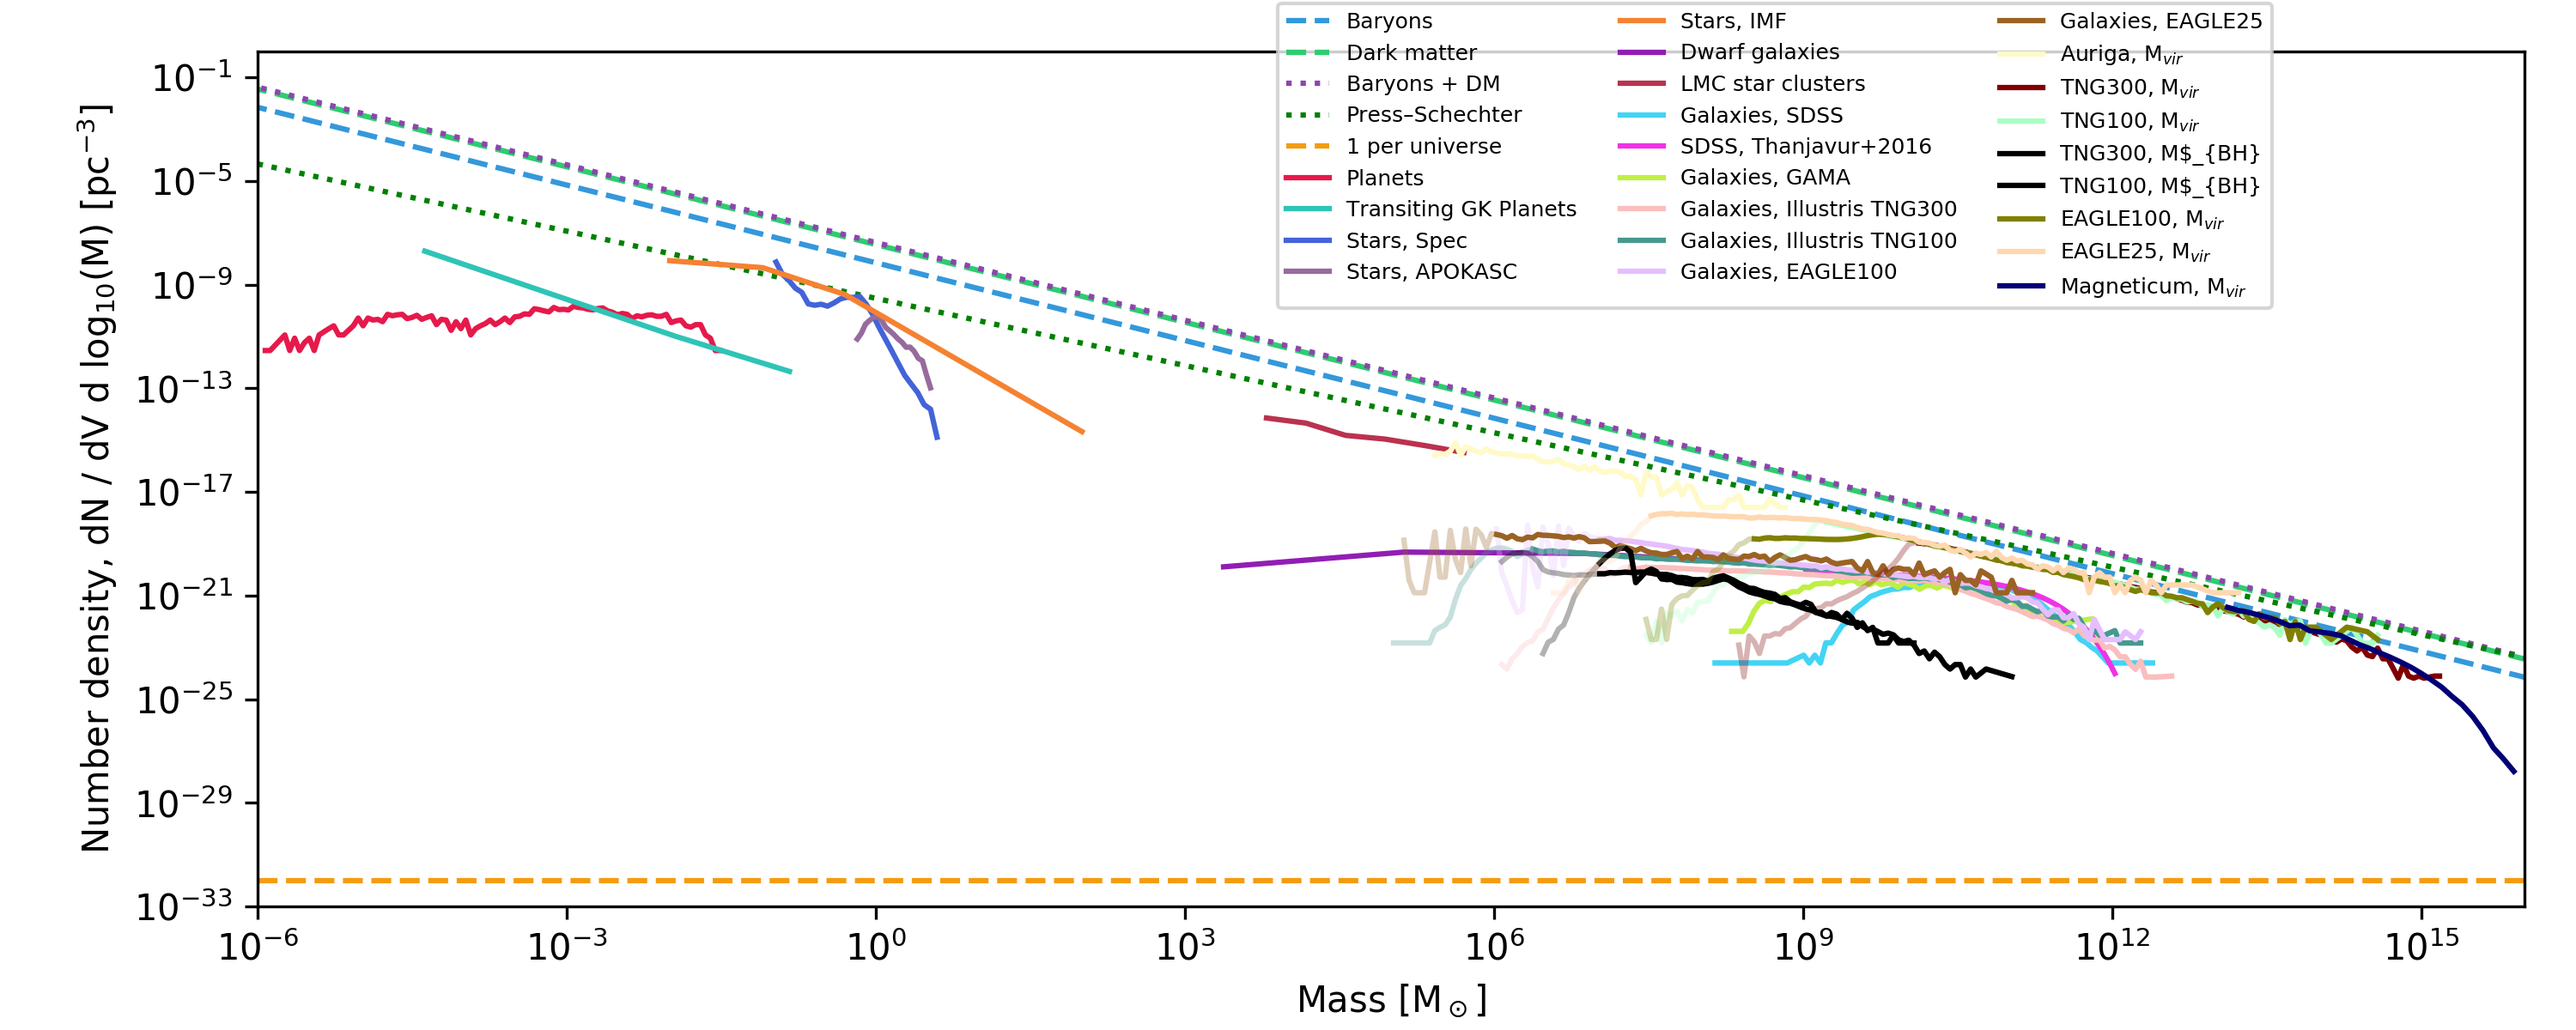
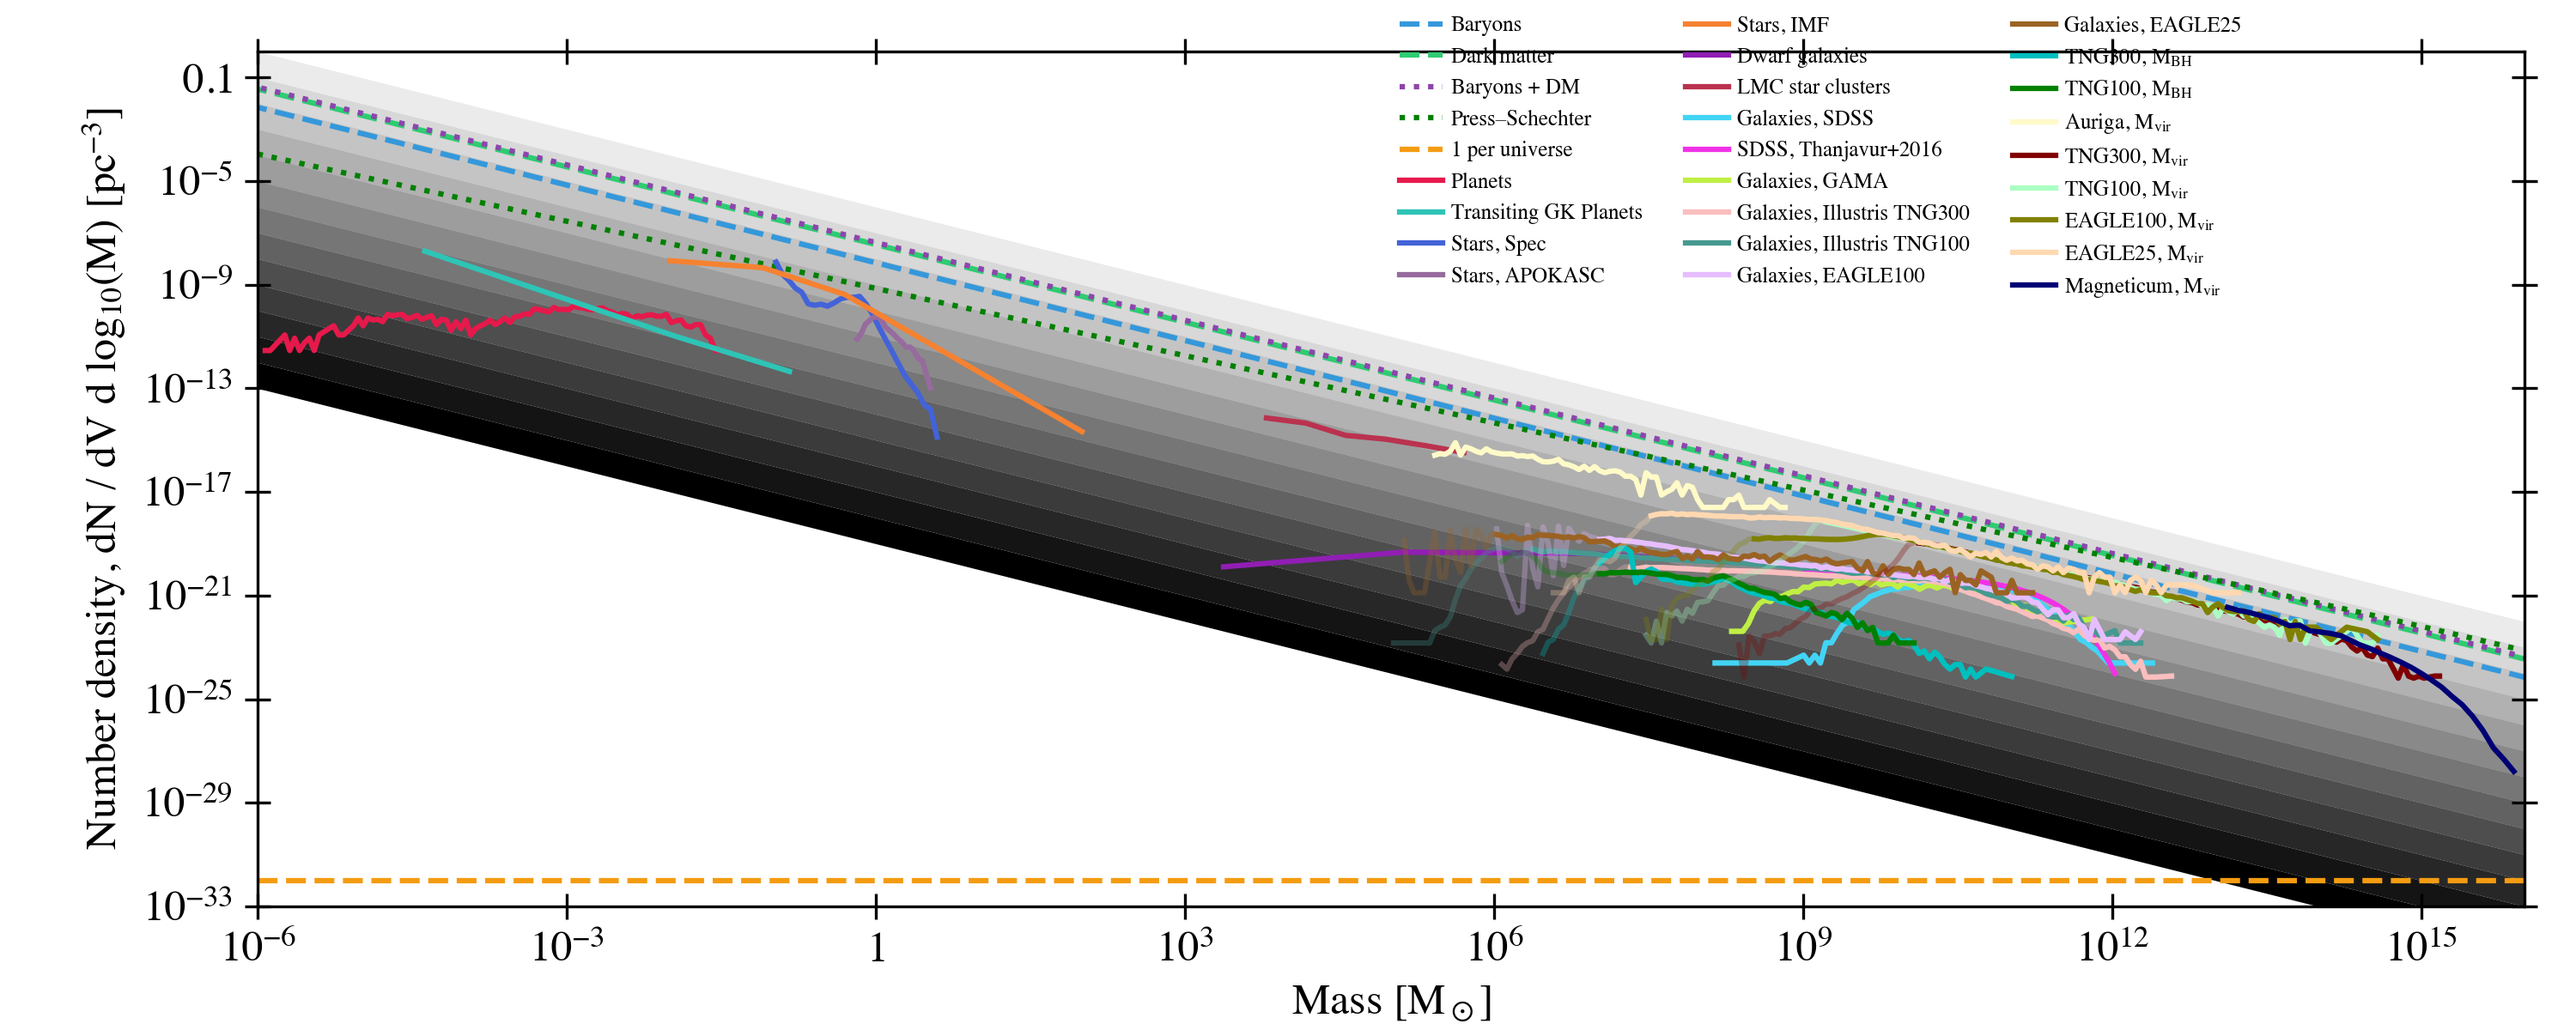
update histogram_plot

diff --git a/figures/histogram_plot.py b/figures/histogram_plot.py
@@ -6,8 +6,8 @@ from plot_funcs import plot_background, plot_hist
 from misc_funcs import load_data
 from datasets import data_to_plot
 
-# dataset = 'dn_dv_dlogm'
-dataset = 'dn_dv_dlogr'
+dataset = 'dn_dv_dlogm'
+#dataset = 'dn_dv_dlogr'
 
 data, fig_savename, xlab, ylab, xlo, xhi, ylo, yhi = data_to_plot(dataset)
 
